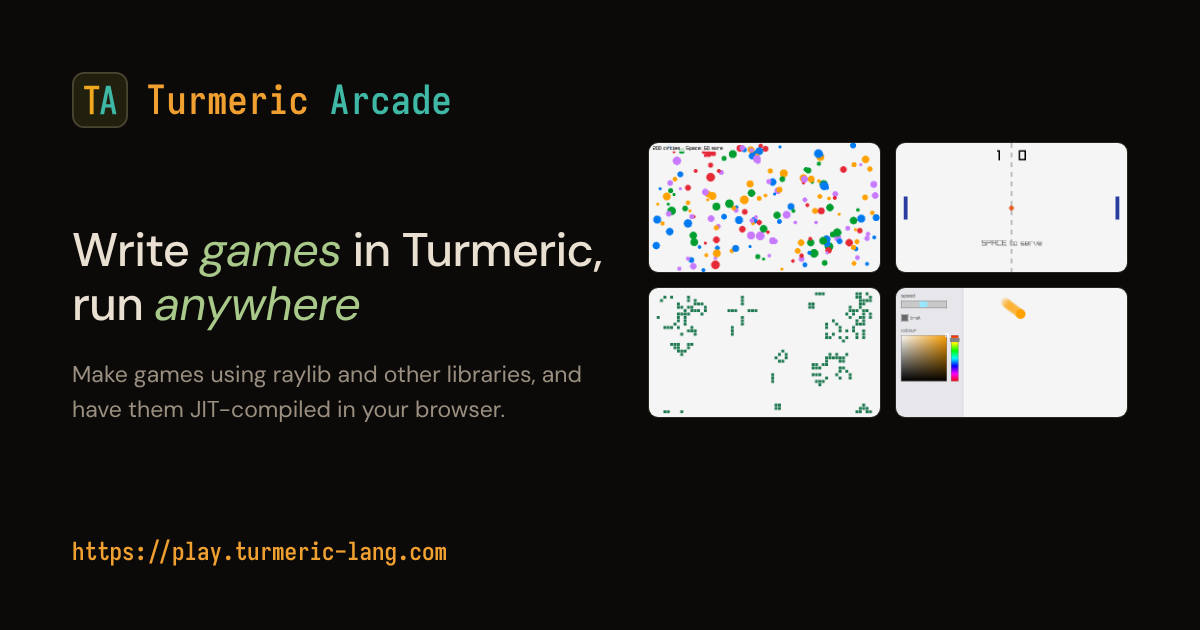
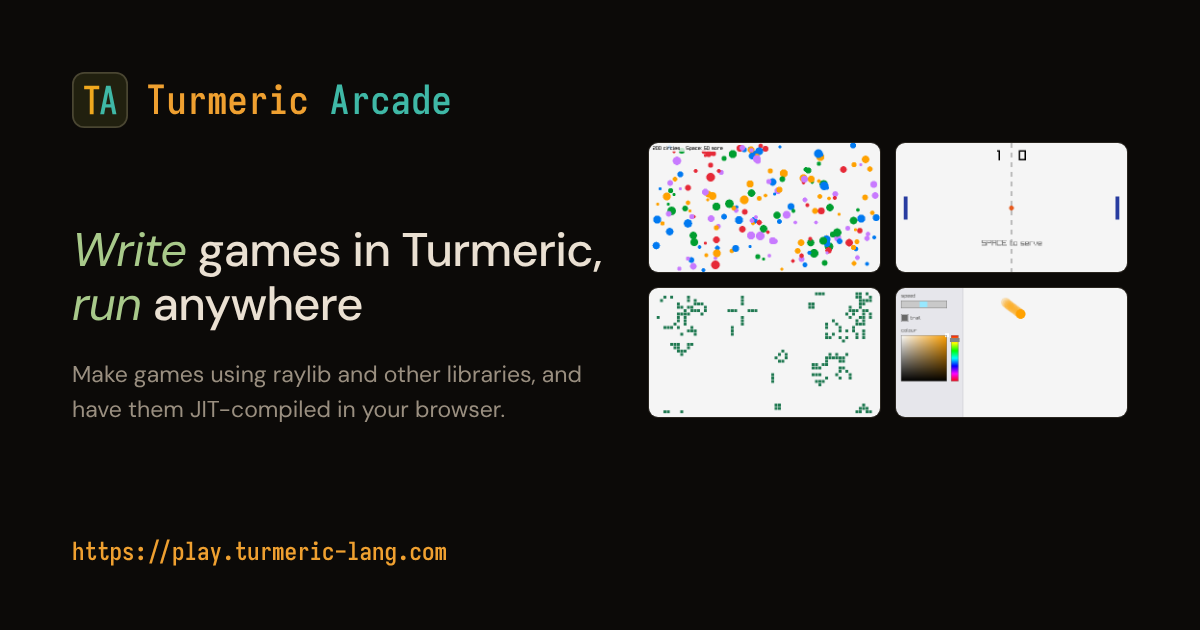
Social card: the emphasis on "Write" and "run"
Claude-Session: https://claude.ai/code/session_01DgzZXAHhjwXFZSQoeuvmY4

Changed region(s): [[0.0617, 0.3619, 0.3083, 0.5127], [0.37, 0.3921, 0.4933, 0.4222]]

diff --git a/scripts/images/og.html b/scripts/images/og.html
@@ -41,7 +41,7 @@ pre { padding: 22px 26px; font: 400 19px/1.65 'Iosevka', monospace; color: var(-
 <body>
 <div class="left">
   <div class="brand"><img src="../../web/public/favicon.svg"><span><span class="t">Turmeric</span> <span class="a">Arcade</span></span></div>
-  <h1>Write <em>games</em> in Turmeric,<br>run <em>anywhere</em></h1>
+  <h1><em>Write</em> games in Turmeric,<br><em>run</em> anywhere</h1>
   <p>Make games using raylib and other libraries, and have them JIT-compiled in your browser.</p>
 </div>
 <div class="url">https://play.turmeric-lang.com</div>
